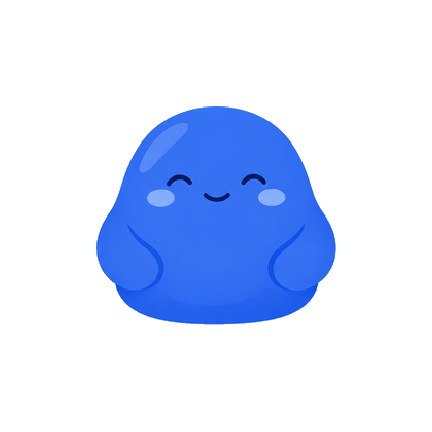
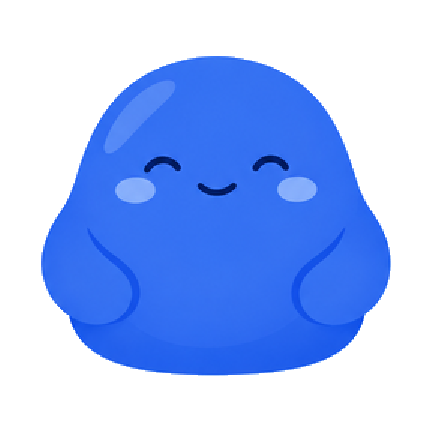
fix(app): mascota del icono a 350 px (compensa el margen de flutter_launcher_icons)

diff --git a/app_ansiedad/tool/generar_icono_launcher.dart b/app_ansiedad/tool/generar_icono_launcher.dart
@@ -8,13 +8,14 @@
 // El avatar trae un círculo claro con una orilla gris: se quita todo lo que
 // se alcanza desde las esquinas sin cruzar a la mascota (relleno por
 // inundación), y queda solo el personaje. Android recorta el icono
-// adaptativo (108 dp) a la zona segura del centro (66 dp ≈ 264 px de 432):
-// la mascota se deja en 240 px de ancho para que ningún launcher la corte.
+// adaptativo (108 dp) a la zona segura del centro (66 dp de diámetro), y
+// flutter_launcher_icons le pone además un margen interno de 16 % (queda en
+// 73 dp): con 350 px de 432 la mascota mide ~59 dp y ningún launcher la corta.
 import 'dart:collection';
 import 'dart:io';
 import 'package:image/image.dart' as img;
 
-const anchoMascota = 240;
+const anchoMascota = 350;
 const lado = 432;
 
 // Píxel de la mascota: azul del cuerpo o los trazos oscuros de la cara.
